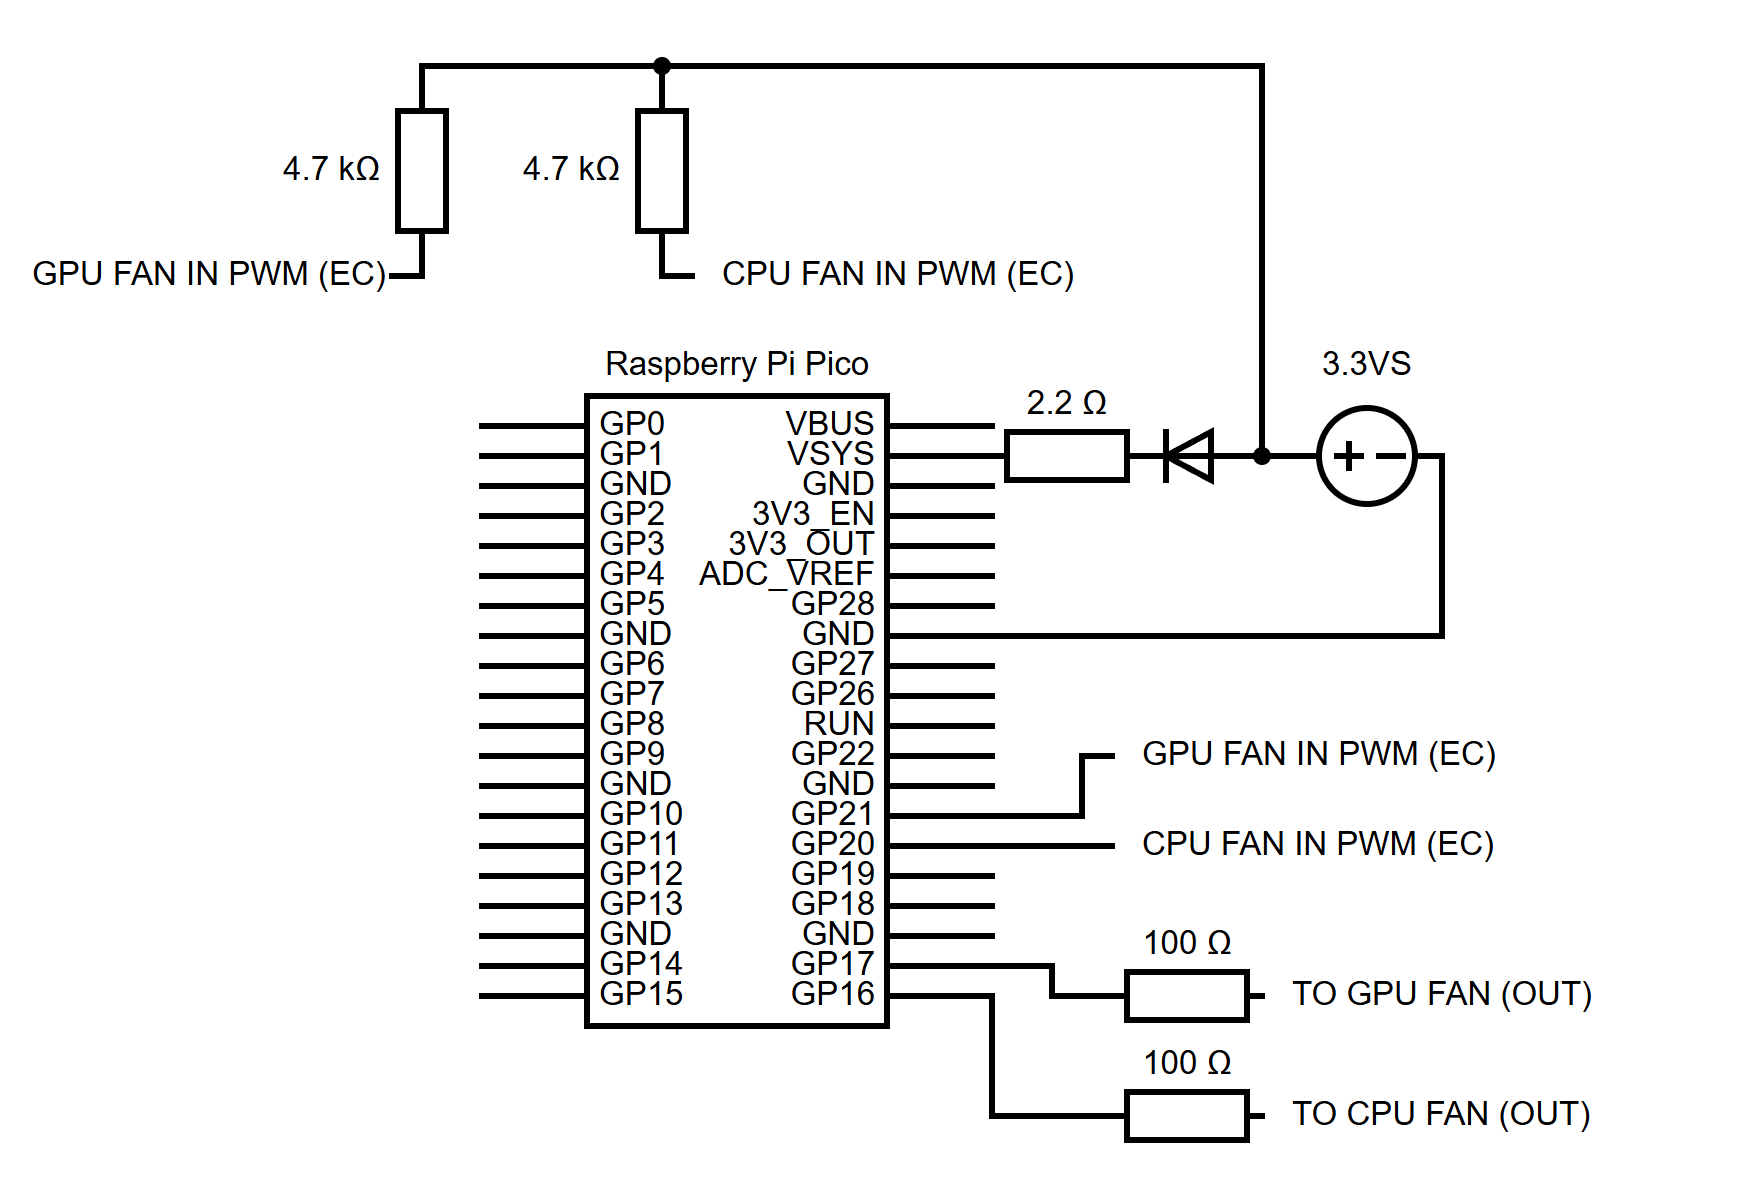
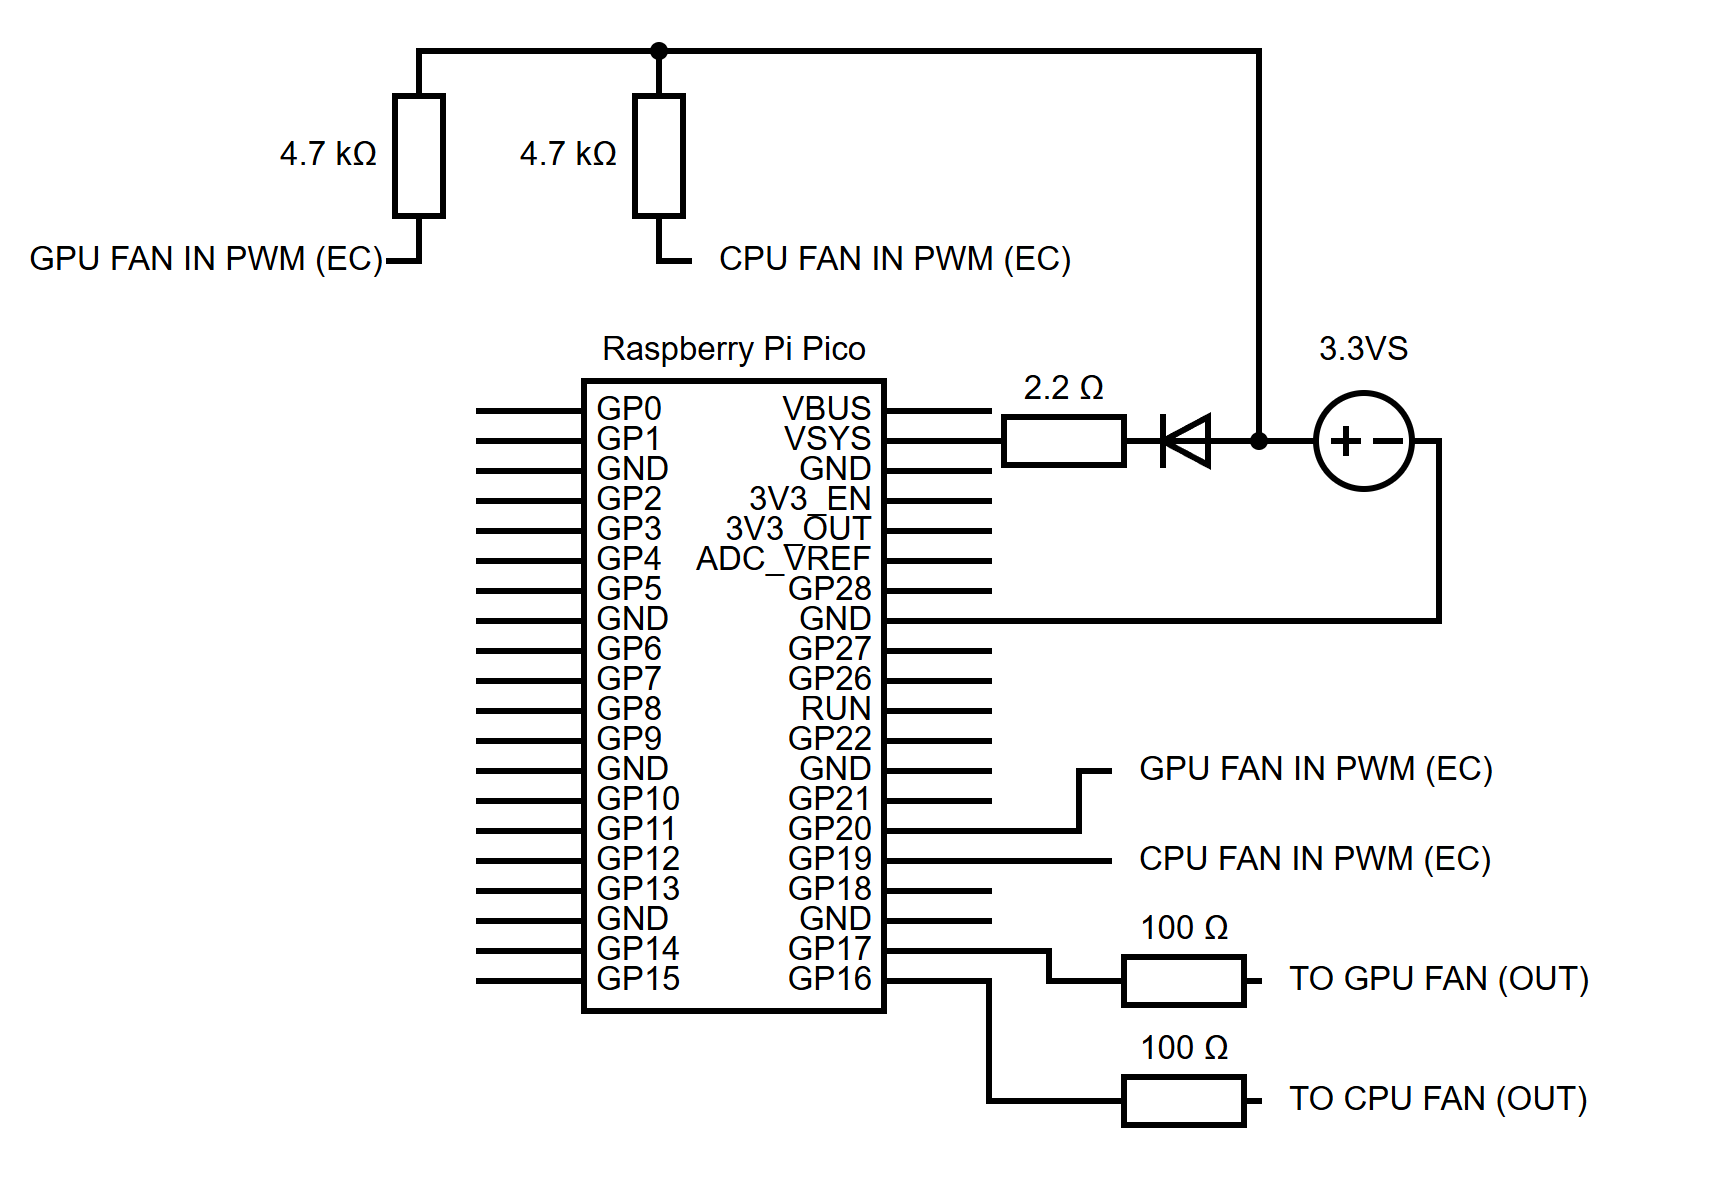
Update GPIO pins and circuit diagram pins

Changed region(s): [[0.0, 0.0305, 0.8735, 0.855], [0.5615, 0.7634, 0.9359, 0.9771]]

diff --git a/main.py b/main.py
@@ -18,14 +18,12 @@ defaultSpeedDutyCycle = int(65535 * 0.3)  # 30% of 65535
 cpuOutFanPWMPin.duty_u16(defaultSpeedDutyCycle)
 gpuOutFanPWMPin.duty_u16(defaultSpeedDutyCycle)
 
-# Configure GP20 as input for EC PWM (CPU)
 smFreq = 125_000_000
 gp19CPUin = Pin(19, Pin.IN)
 gp20GPUin = Pin(20, Pin.IN)
 
 smCyclesInECCycle = smFreq / ECPWMFreq
 
-#@asm_pio()
 @rp2.asm_pio()
 def pwm_reader():
     # Measure high time of PWM signal
@@ -51,8 +49,8 @@ smGPU.active(1)
 def dutyCalc(highTime):
     dutyCycleIn = 0xFFFFFFFF - highTime
     dutyCycleOut = int((dutyCycleIn / smCyclesInECCycle) * 65535) * 2 # *2 (half cycle is used only)
-    if dutyCycleOut > 65535:
-        return 65535
+    if dutyCycleOut > 65535: #In any case dutyCycleIn > smCyclesInECCycle
+        return 65535         #return max speed
     elif dutyCycleOut < defaultSpeedDutyCycle: #don't allow <30% RPM
         return defaultSpeedDutyCycle
     return dutyCycleOut
@@ -75,5 +73,4 @@ while True:
         #print(f"High time GPU: {dutyCycleGPUOut:.12f}")
         #saveToLog(f"GPU: {dutyCycleGPUOut}\n")
     #print(f"{sm.rx_fifo()}")
-    time.sleep(0.01)
-
+    time.sleep(0.01) #You can play with this, my laptop Asus G713PI works fine with 10ms delay
